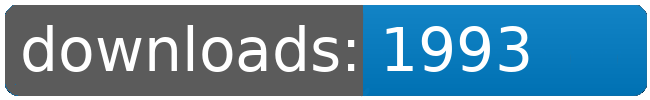
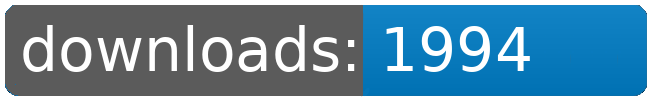
dl log written

Changed region(s): [[0.7692, 0.24, 0.8308, 0.72]]

diff --git a/README.md b/README.md
@@ -21,8 +21,8 @@
 		<td>1925</td>
 		<td>1950</td>
 		<td>1976</td>
-		<td>1993</td>
-		<td>+ 17</td>
+		<td>1994</td>
+		<td>+ 18</td>
 	</tr>
 	<tr>
 		<td>Factory.Outlets</td>
@@ -109,8 +109,8 @@
 		<td></td>
 		<td></td>
 		<td></td>
-		<td>16258</td>
-		<td>54</td>
+		<td>16259</td>
+		<td>55</td>
 	</tr>
 </table>
 </sub></sup>
@@ -157,8 +157,8 @@
 		<td>1925</td>
 		<td>1950</td>
 		<td>1976</td>
-		<td>1993</td>
-		<td>+ 17</td>
+		<td>1994</td>
+		<td>+ 18</td>
 	</tr>
 	<tr>
 		<td>Korunak.Defense.Drones</td>
@@ -223,8 +223,8 @@
 		<td></td>
 		<td></td>
 		<td></td>
-		<td>16258</td>
-		<td>54</td>
+		<td>16259</td>
+		<td>55</td>
 	</tr>
 </table>
 </sub></sup>
